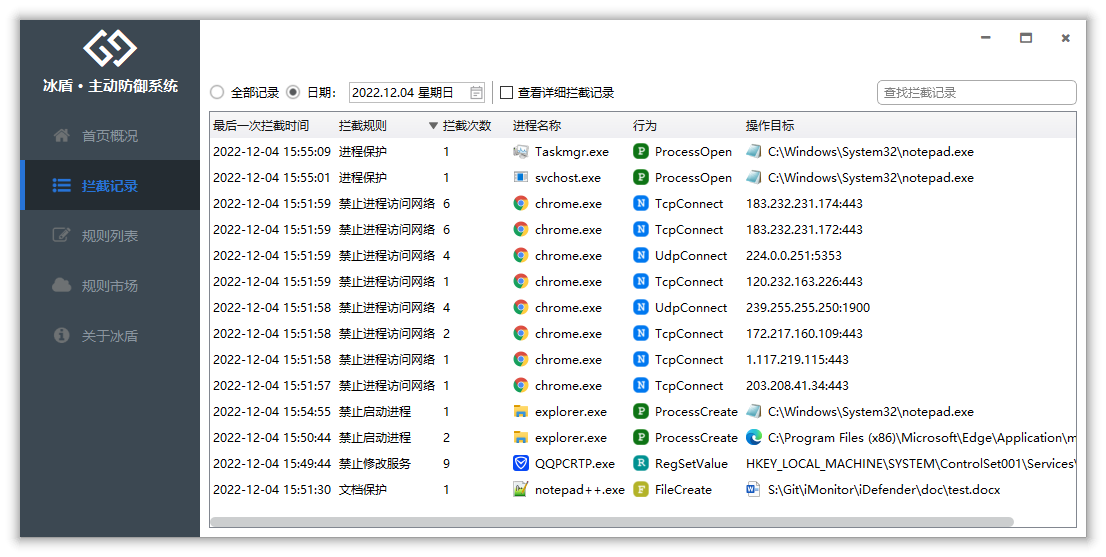
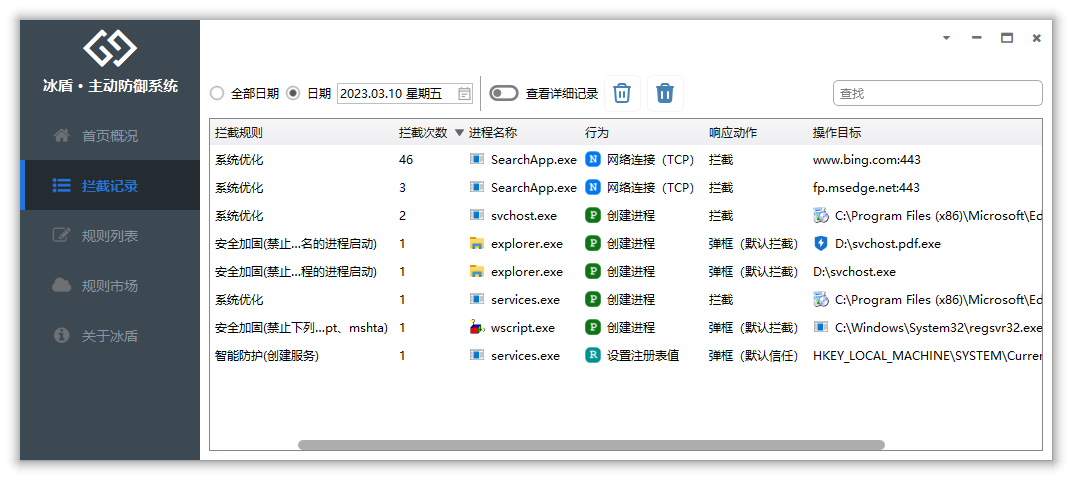
2.5.0

diff --git a/README.md b/README.md
@@ -2,24 +2,90 @@
 
 ## iDefender
 
-**冰盾 - 主动防御系统**  【专业不流氓】是一款基于[iMonitorSDK](https://imonitorsdk.com/)实现，为专业人士打造的终端、主机主动防御系统。使用冰盾可以帮助您抵制流氓软件、保护电脑安全、提高工作效率。
+## iDefender
+
+**冰盾 · 主动防御系统**  【专业不流氓】是一款基于[iMonitorSDK](https://imonitorsdk.com/)实现，为专业人士打造的终端、主机主动防御系统。使用冰盾可以帮助您拦截漏洞攻击、抵制流氓软件、保护电脑安全、提高工作效率。
 
 ## 功能特点
 
-- 支持进程、文件、注册表、网络等多种事件的监控拦截
-- 支持多种不同的规则匹配，使用模板 + 参数的方式，让规则编辑更加方便
-- 使用匹配缓存，优化匹配速度，性能消耗低
+- 支持监控拦截多种事件，包括进程、文件、注册表、网络等。
+- 内置智能防护、系统优化、安全加固、漏洞防御等默认规则，一键开启防护功能。
+- 支持多种规则模板，可以快速添加规则，满足不同的防护需求。
+- 占用系统资源低，兼容性好，适用于Win7到Win11以及Windows Server系统。
 
 ## 使用场景
 
-- 文档保护 - 防止勒索病毒
-- 进程守护 - 防止进程被注入、结束
-- 进程拦截 - 抵制流氓软件
-- 主机安全 - 保护服务器不被入侵
-- 联网控制 - 保护个人隐私
-- 行为管理 - 安全上网
-- 病毒拦截 - 云引擎自动拦截病毒
-- 隐私保护 - 保护您的数据不被流氓软件偷偷上传
+- **文档保护：** 防止勒索病毒对您的重要文档进行加密，保护您的数据安全。
+- **进程拦截：** 拦截流氓软件的恶意行为，保护您的计算机系统不受恶意软件的侵害。
+- **主机安全：** 提供多层安全防护机制，保护服务器不受黑客攻击和恶意软件的入侵。
+- **病毒拦截：** 通过云引擎自动拦截病毒，提供实时的病毒拦截和清除功能，保护您的计算机系统不受病毒和恶意软件的感染。
+- **隐私保护：** 监控并防止流氓软件对您的个人隐私进行窃取和上传，保护您的数据不被非法获取和滥用。
+- **联网控制：** 监控网络流量，防止个人信息泄露和网络攻击，保护您的个人隐私。
+- **上网管理：** 通过对上网行为的管理和控制，保障您的网络安全，防止不良信息的侵害。
+- **进程守护：** 防止恶意程序对进程进行注入和结束，保护系统稳定和安全。
+
+## 使用说明
+
+冰盾是一款基于软件行为规则的防御引擎，规则主要包括基础规则和自定义规则两部分。
+
+### 基础规则
+
+- **智能防护：** 利用智能分析和识别恶意软件行为，提供实时防护机制，确保系统免受恶意软件侵害。
+- **系统优化：** 拦截非必要的软件和联网行为，提高系统运行速度和稳定性，提供更优秀的用户体验。
+- **安全加固：** 拦截系统存在漏洞的组件和常见入侵途径，增强系统安全性，避免遭受恶意软件攻击。
+- **漏洞防御：** 根据已知漏洞入侵方式开发专门的防御规则，保障系统不受黑客攻击和恶意软件入侵。
+
+![](./doc/rule_system_opt.png)
+
+![](./doc/rule_vul_defense.png)
+
+![](./doc/rule_reforce.png)
+
+### 自定义规则
+
+为了更方便地添加自定义规则，冰盾采用模板+参数的方式。使用模板创建规则后，只需添加关键参数即可建立规则。例如，使用进程启动模板时，只需填写需要拦截的进程名称或路径即可。
+
+目前已经支持的规则模板有30多个，未来根据需求还会持续添加。
+
+![](./doc/templates.png)
+
+![](./doc/templates_2.png)
+
+#### 常见规则模板介绍
+
+##### 禁止进程启动
+
+![](./doc/rule_process.png)
+
+
+##### 文档保护
+
+![](./doc/rule_file_protect.png)
+
+##### 隐私保护
+
+![](./doc/rule_privacy.png)
+
+##### 禁止进程访问网络
+
+![](./doc/rule_process_network.png)
+
+#### 专业版规则模板
+
+除了上面的场景规则模板，专业版本还提供了更加专业化的规则模板：高级模板、专家模板。
+
+![](./doc/rule_adv.png)
+
+### 拦截响应
+
+对行为拦截后，可以设置不同的响应动作：
+
+- **拦截：** 默认动作，拦截行为的发生。
+- **信任：** 信任当前的行为或者进程、配合优先级，可以实现白名单功能。
+- **弹框（默认拦截）：** 拦截后弹框由用户确认具体的处理逻辑，如果没有响应则默认拦截行为发生。
+- **弹框（默认信任）：** 拦截后弹框由用户确认具体的处理逻辑，如果没有响应则默认允许行为发生。
+- **记录：** 只记录事件的发生，可以用于查看创建的进程或者全部的联网过程等。未来可以把记录的事件上报到第三方数据中心，实现EDR功能。
+- **结束进程：** 结束当前的进程
 
 ## 软件截图
 
@@ -29,7 +95,11 @@
 
 ![home](./doc/rules.png)
 
+![home](./doc/ask.png)
+
 ![home](./doc/templates.png)
+
+![home](./doc/templates_2.png)
 
 ![home](./doc/rule_process.png)
 
@@ -38,8 +108,6 @@
 ![home](./doc/rule_privacy.png)
 
 ![home](./doc/rule_adv.png)
-
-![home](./doc/rule_pro.png)
 
 ![home](./doc/about.png)
 
